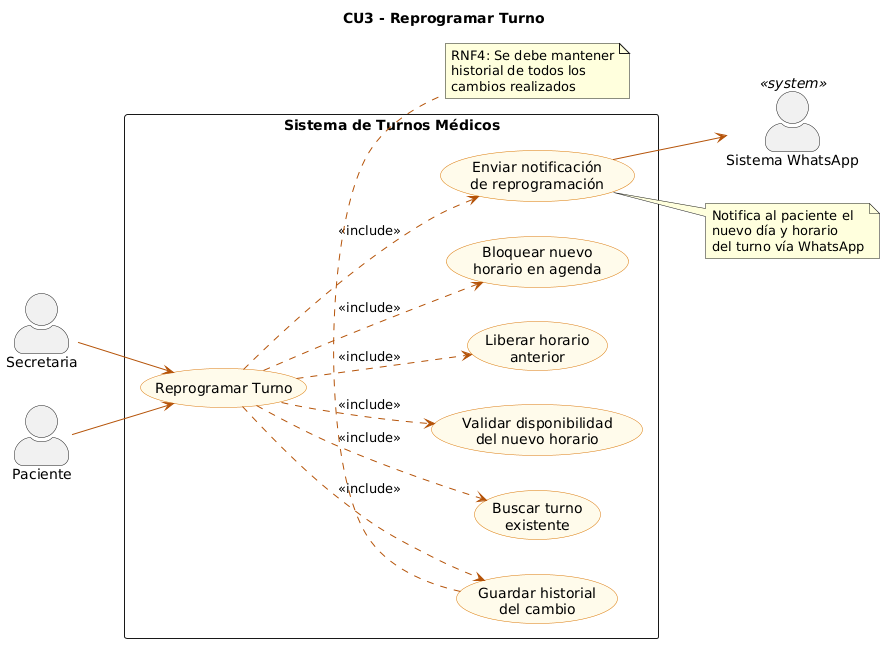
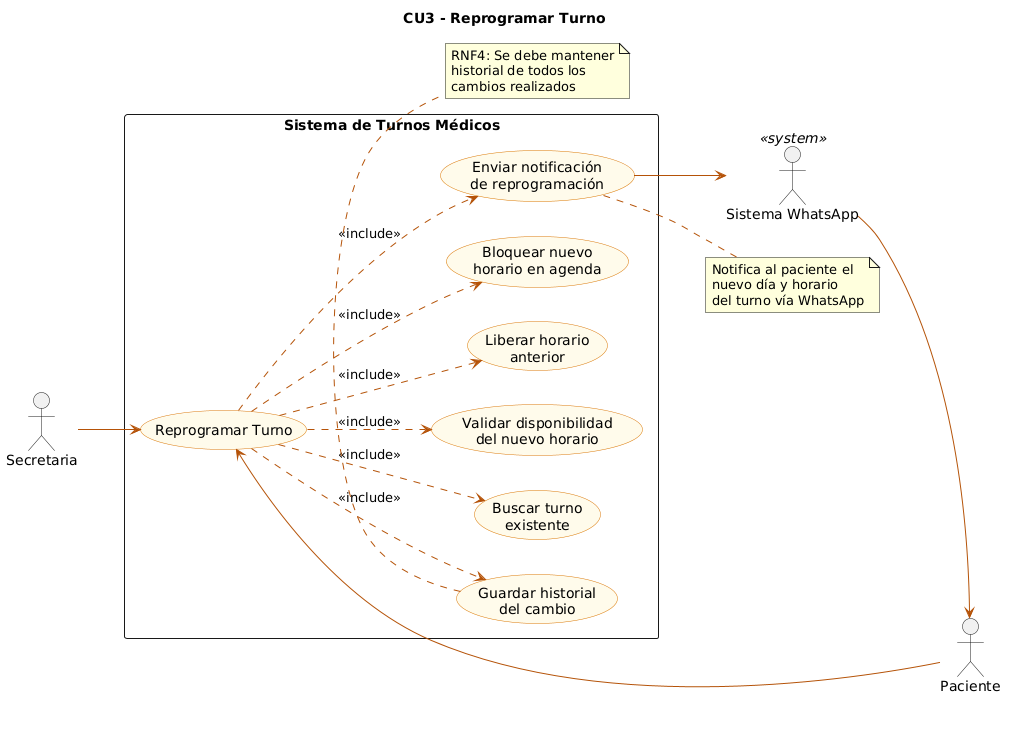
Correcciones generales archivos changelog - ia/a2 - diag de casos de uso

diff --git a/changelog.md b/changelog.md
@@ -2,126 +2,90 @@
 
 ## [Release Actividad Obligatoria N°2] - 2026-04-20
 ### Added
-- [feature/espec-escenarios-casos-uso-add-escenario-1]  Escenarios de casos de uso completos.
-  PR: [#67](https://github.com/angelgc9107-lgtm/SistemaTurnosMedicos_GP6/pull/67) — @Piastrellini (Especialista en Escenarios De Casos de Uso)
+- [feature/espec-escenarios-casos-uso-add-escenario-1]  Escenarios de casos de uso completos. PR: [#67](https://github.com/angelgc9107-lgtm/SistemaTurnosMedicos_GP6/pull/67) — @Piastrellini (Especialista en Escenarios De Casos de Uso)
 
-- [feature/documentador-y-coordinador-2]  Creacion de formato de carpetas, junto con correcciones de changelog, nomenclatura y rutas.
-  PR: [#78](https://github.com/angelgc9107-lgtm/SistemaTurnosMedicos_GP6/pull/78) — @alandox1 (Documentador y coordinador de archivos)
+- [feature/documentador-y-coordinador-2]  Creacion de formato de carpetas, junto con correcciones de changelog, nomenclatura y rutas. PR: [#78](https://github.com/angelgc9107-lgtm/SistemaTurnosMedicos_GP6/pull/78) — @alandox1 (Documentador y coordinador de archivos)
 
-- [feature/diseniador-tarjetas-crc-add-tarjeta-clase-1]  Tarjetas CRC completas.
-  PR: [#81](https://github.com/angelgc9107-lgtm/SistemaTurnosMedicos_GP6/pull/81) — @LuchoBarrionuevo13 (Diseñador de Tarjetas CRC)
+- [feature/diseniador-tarjetas-crc-add-tarjeta-clase-1]  Tarjetas CRC completas. PR: [#81](https://github.com/angelgc9107-lgtm/SistemaTurnosMedicos_GP6/pull/81) — @LuchoBarrionuevo13 (Diseñador de Tarjetas CRC)
 
-- [feature/documentador-y-coordinador-2]  Registrar uso de Ia en la carpeta correspondida.
-  PR: [#82](https://github.com/angelgc9107-lgtm/SistemaTurnosMedicos_GP6/pull/82) — @alandox1 (Documentador y coordinador de archivos)
+- [feature/documentador-y-coordinador-2]  Registrar uso de Ia en la carpeta correspondida. PR: [#82](https://github.com/angelgc9107-lgtm/SistemaTurnosMedicos_GP6/pull/82) — @alandox1 (Documentador y coordinador de archivos)
 
-- [feature/modelador-diag-casos-uso-update-use-case-1]  Corrección a diagramas de casos de uso.
-  PR: [#80](https://github.com/angelgc9107-lgtm/SistemaTurnosMedicos_GP6/pull/80) — @angelgc9107-lgtm (Modelador de Diagramas de Casos de Uso)
+- [feature/modelador-diag-casos-uso-update-use-case-1]  Corrección a diagramas de casos de uso. PR: [#80](https://github.com/angelgc9107-lgtm/SistemaTurnosMedicos_GP6/pull/80) — @angelgc9107-lgtm (Modelador de Diagramas de Casos de Uso)
 
 ### Fixed
-  - [fix/changelog]  Reestructurar changelog segun estandares.
-  PR: [#85](https://github.com/angelgc9107-lgtm/SistemaTurnosMedicos_GP6/pull/85) — @alandox1 (Documentador y coordinador de archivos)
+- [fix/changelog]  Reestructurar changelog segun estandares. PR: [#85](https://github.com/angelgc9107-lgtm/SistemaTurnosMedicos_GP6/pull/85) — @alandox1 (Documentador y coordinador de archivos)
 
-  - [fix/changelog]  Correcciones de tarjetas CRC.
-  PR: [#87](https://github.com/angelgc9107-lgtm/SistemaTurnosMedicos_GP6/pull/87) — @luchobarrionuevo13 (Diseñador de tarjetas CRC)
+- [fix/changelog]  Correcciones de tarjetas CRC. PR: [#87](https://github.com/angelgc9107-lgtm/SistemaTurnosMedicos_GP6/pull/87) — @luchobarrionuevo13 (Diseñador de tarjetas CRC)
   
-  - [fix/diag-casos-de-uso]  Corrección de los diagramas de casos de uso.
-  PR: [#89](https://github.com/angelgc9107-lgtm/SistemaTurnosMedicos_GP6/pull/89) — @angelgc9107-lgtm (Modelador de diagramas de casos de uso)
+- [fix/diag-casos-de-uso]  Corrección de los diagramas de casos de uso. PR: [#89](https://github.com/angelgc9107-lgtm/SistemaTurnosMedicos_GP6/pull/89) — @angelgc9107-lgtm (Modelador de diagramas de casos de uso)
 
-  - [fix/corrección-escarios-casos-de-uso]  Corrección completa de archivo escenarios_de_casos_de_uso.md.
-  PR: [#91](https://github.com/angelgc9107-lgtm/SistemaTurnosMedicos_GP6/pull/91) — @Piastrellini (Especialista en Escenarios De Casos de Uso)
+- [fix/corrección-escarios-casos-de-uso]  Corrección completa de archivo escenarios_de_casos_de_uso.md. PR: [#91](https://github.com/angelgc9107-lgtm/SistemaTurnosMedicos_GP6/pull/91) — @Piastrellini (Especialista en Escenarios De Casos de Uso)
 
-  - [fix/changelog-diag]  Corrección al formato archivo a2.
-  PR: [#94](https://github.com/angelgc9107-lgtm/SistemaTurnosMedicos_GP6/pull/94) — @angelgc9107-lgtm (Modelador de diagramas de casos de uso)
+- [fix/changelog-diag]  Corrección al formato archivo a2. PR: [#94](https://github.com/angelgc9107-lgtm/SistemaTurnosMedicos_GP6/pull/94) — @angelgc9107-lgtm (Modelador de diagramas de casos de uso)
 
-  - [fix/correccion-tarjetas-crc-completa]  Correcciones de tarjetas CRC completo.
-  PR: [#95](https://github.com/angelgc9107-lgtm/SistemaTurnosMedicos_GP6/pull/95) — @luchobarrionuevo13 (Diseñador de tarjetas CRC)
+- [fix/correccion-tarjetas-crc-completa]  Correcciones de tarjetas CRC completo. PR: [#95](https://github.com/angelgc9107-lgtm/SistemaTurnosMedicos_GP6/pull/95) — @luchobarrionuevo13 (Diseñador de tarjetas CRC)
 
-  - [fix/changelog-correcciones]  Corrección al changelog y archivo diagramas de casos de uso.
-  PR: [#97](https://github.com/angelgc9107-lgtm/SistemaTurnosMedicos_GP6/pull/97) — @angelgc9107-lgtm (Modelador de diagramas de casos de uso)
+- [fix/changelog-correcciones]  Corrección al changelog y archivo diagramas de casos de uso. PR: [#97](https://github.com/angelgc9107-lgtm/SistemaTurnosMedicos_GP6/pull/97) — @angelgc9107-lgtm (Modelador de diagramas de casos de uso)
 
-  - [fix/changelog-correcciones]  Agregar PR al changelog.
-  PR: [#101](https://github.com/angelgc9107-lgtm/SistemaTurnosMedicos_GP6/pull/101) — @angelgc9107-lgtm (Modelador de diagramas de casos de uso)
+- [fix/changelog-correcciones]  Agregar PR al changelog. PR: [#101](https://github.com/angelgc9107-lgtm/SistemaTurnosMedicos_GP6/pull/101) — @angelgc9107-lgtm (Modelador de diagramas de casos de uso)
 
 ---
 
 ## [Release Actividad Obligatoria N°1] - 2026-03-26
 
 ### Added
-- [feature/modelador-casos-uso-update-use-case-1]  Documentación de 5 casos de uso completos en introduccion.md.
-  PR: [#2](https://github.com/angelgc9107-lgtm/SistemaTurnosMedicos_GP6/pull/2) — @ferreyrasantiagojoaquin-lab (Modelador de casos de uso)
+- [feature/modelador-casos-uso-update-use-case-1]  Documentación de 5 casos de uso completos en introduccion.md. PR: [#2](https://github.com/angelgc9107-lgtm/SistemaTurnosMedicos_GP6/pull/2) — @ferreyrasantiagojoaquin-lab (Modelador de casos de uso)
 
-- [feature/doc-coord-repo-update-readme-md]  Creacion de estructura del repositorio, README.md, changelog.md, anexos.md e introducción a POO.
-  PR: [#4](https://github.com/angelgc9107-lgtm/SistemaTurnosMedicos_GP6/pull/4) — @claudiapnunez (Documentador y Coordinador)
+- [feature/doc-coord-repo-update-readme-md]  Creacion de estructura del repositorio, README.md, changelog.md, anexos.md e introducción a POO. PR: [#4](https://github.com/angelgc9107-lgtm/SistemaTurnosMedicos_GP6/pull/4) — @claudiapnunez (Documentador y Coordinador)
 
-- [feature/diseniador-clases-add-boceto-inicial]  Exportación de documentación y organización de archivos en la carpeta diagramas/01-diagrama-clases/.
-  PR: [#12](https://github.com/angelgc9107-lgtm/SistemaTurnosMedicos_GP6/pull/12) — @Piastrellini (Diseñador de clases iniciales)
-  PR: [#15](https://github.com/angelgc9107-lgtm/SistemaTurnosMedicos_GP6/pull/15) — @Piastrellini (Diseñador de clases iniciales)
+- [feature/diseniador-clases-add-boceto-inicial]  Exportación de documentación y organización de archivos en la carpeta diagramas/01-diagrama-clases/. PR: [#12](https://github.com/angelgc9107-lgtm/SistemaTurnosMedicos_GP6/pull/12) — @Piastrellini (Diseñador de clases iniciales) 
 
-- [feature/analista-requerimentos-add-introduccion-md]  Documentación de los requerimientos funcionales y no funcionales.
-  PR: [#14](https://github.com/angelgc9107-lgtm/SistemaTurnosMedicos_GP6/pull/14) — @angelgc9107-lgtm (Analista de requerimientos)
+- [feature/diseniador-clases-add-boceto-inicial]  Exportación de documentación y organización de archivos en la carpeta diagramas/01-diagrama-clases/. PR: [#15](https://github.com/angelgc9107-lgtm/SistemaTurnosMedicos_GP6/pull/15) — @Piastrellini (Diseñador de clases iniciales)
+
+- [feature/analista-requerimentos-add-introduccion-md]  Documentación de los requerimientos funcionales y no funcionales. PR: [#14](https://github.com/angelgc9107-lgtm/SistemaTurnosMedicos_GP6/pull/14) — @angelgc9107-lgtm (Analista de requerimientos)
 
 ### Changed
-- [feature/modelador-casos-uso-update-use-case-1]  Los casos de uso presentes, PR a develop y el Issue vinculado.
-  PR: [#10](https://github.com/angelgc9107-lgtm/SistemaTurnosMedicos_GP6/pull/10) — @ferreyrasantiagojoaquin-lab (Modelador de casos de uso)
+- [feature/modelador-casos-uso-update-use-case-1]  Los casos de uso presentes, PR a develop y el Issue vinculado. PR: [#10](https://github.com/angelgc9107-lgtm/SistemaTurnosMedicos_GP6/pull/10) — @ferreyrasantiagojoaquin-lab (Modelador de casos de uso)
 
-- [feature/fix-changelog.md]  Corrección a los archivos changelog.md & README.md.
-  PR: [#18](https://github.com/angelgc9107-lgtm/SistemaTurnosMedicos_GP6/pull/18) — @angelgc9107-lgtm (Analista de requerimientos)
+- [feature/fix-changelog.md]  Corrección a los archivos changelog.md & README.md. PR: [#18](https://github.com/angelgc9107-lgtm/SistemaTurnosMedicos_GP6/pull/18) — @angelgc9107-lgtm (Analista de requerimientos)
 
-- [feature/fix-changelog.md]  Corrección a los archivos changelog.md & README.md.
-  PR: [#20](https://github.com/angelgc9107-lgtm/SistemaTurnosMedicos_GP6/pull/20) — @angelgc9107-lgtm (Analista de requerimientos)
+- [feature/fix-changelog.md]  Corrección a los archivos changelog.md & README.md. PR: [#20](https://github.com/angelgc9107-lgtm/SistemaTurnosMedicos_GP6/pull/20) — @angelgc9107-lgtm (Analista de requerimientos)
 
-- [feature/diseniador-clases-add-boceto-inicial]  Corrección de estructura de diagramas y nombre de carpetas.
-  PR: [#21](https://github.com/angelgc9107-lgtm/SistemaTurnosMedicos_GP6/pull/21) — @Piastrellini (Diseñador de clases iniciales)
+- [feature/diseniador-clases-add-boceto-inicial]  Corrección de estructura de diagramas y nombre de carpetas. PR: [#21](https://github.com/angelgc9107-lgtm/SistemaTurnosMedicos_GP6/pull/21) — @Piastrellini (Diseñador de clases iniciales)
 
-- [feature/Piastrellini-pach-1]  Actualizar changelog 2026-04-06.
-  PR: [#28](https://github.com/angelgc9107-lgtm/SistemaTurnosMedicos_GP6/pull/28) — @Piastrellini (Diseñador de clases iniciales)
+- [feature/Piastrellini-pach-1]  Actualizar changelog 2026-04-06. PR: [#28](https://github.com/angelgc9107-lgtm/SistemaTurnosMedicos_GP6/pull/28) — @Piastrellini (Diseñador de clases iniciales)
 
-- [feature/analista-requerimentos-add-introduccion-md]  Corrección a los archivos changelog.md & estructura de archivo introduccion.md.
-  PR: [#31](https://github.com/angelgc9107-lgtm/SistemaTurnosMedicos_GP6/pull/31) — @angelgc9107-lgtm (Analista de requerimientos)
+- [feature/analista-requerimentos-add-introduccion-md]  Corrección a los archivos changelog.md & estructura de archivo introduccion.md. PR: [#31](https://github.com/angelgc9107-lgtm/SistemaTurnosMedicos_GP6/pull/31) — @angelgc9107-lgtm (Analista de requerimientos)
 
-- [feature/modelador-casos-uso-update-use-case-1]  Corrección a los archivos changelog.md & estructura de archivo introduccion.md.
-  PR: [#34](https://github.com/angelgc9107-lgtm/SistemaTurnosMedicos_GP6/pull/34) — @angelgc9107-lgtm (Analista de requerimientos)
+- [feature/modelador-casos-uso-update-use-case-1]  Corrección a los archivos changelog.md & estructura de archivo introduccion.md. PR: [#34](https://github.com/angelgc9107-lgtm/SistemaTurnosMedicos_GP6/pull/34) — @angelgc9107-lgtm (Analista de requerimientos)
 
-- [feature/doc-coord-repo-update-readme-md]  Corrección de carpetas del repositorio.
-  PR: [#35](https://github.com/angelgc9107-lgtm/SistemaTurnosMedicos_GP6/pull/35) — @alandox1 (Documentador y coordinador de archivos)
+- [feature/doc-coord-repo-update-readme-md]  Corrección de carpetas del repositorio. PR: [#35](https://github.com/angelgc9107-lgtm/SistemaTurnosMedicos_GP6/pull/35) — @alandox1 (Documentador y coordinador de archivos)
 
-- [feature/doc-coord-repo-update-readme-md]  Corrección de archivo anexo.
-  PR: [#36](https://github.com/angelgc9107-lgtm/SistemaTurnosMedicos_GP6/pull/36) — @alandox1 (Documentador y coordinador de archivos)
+- [feature/doc-coord-repo-update-readme-md]  Corrección de archivo anexo. PR: [#36](https://github.com/angelgc9107-lgtm/SistemaTurnosMedicos_GP6/pull/36) — @alandox1 (Documentador y coordinador de archivos)
 
-- [feature/doc-coord-repo-update-readme-md]  Corrección de archivo y actualización de changelog.
-  PR: [#41](https://github.com/angelgc9107-lgtm/SistemaTurnosMedicos_GP6/pull/41) — @alandox1 (Documentador y coordinador de archivos)
+- [feature/doc-coord-repo-update-readme-md]  Corrección de archivo y actualización de changelog. PR: [#41](https://github.com/angelgc9107-lgtm/SistemaTurnosMedicos_GP6/pull/41) — @alandox1 (Documentador y coordinador de archivos)
 
 ### Fixed
 
-- [fix/correccion-Actividad-1]  Corrección de la actividad N° 1.
-  PR: [#47](https://github.com/angelgc9107-lgtm/SistemaTurnosMedicos_GP6/pull/47) — @alandox1 (Documentador y coordinador de archivos)
+- [fix/correccion-Actividad-1]  Corrección de la actividad N° 1. PR: [#47](https://github.com/angelgc9107-lgtm/SistemaTurnosMedicos_GP6/pull/47) — @alandox1 (Documentador y coordinador de archivos)
 
-- [fix/correccion-Actividad-1]  Corrección a los archivos changelog.md & lenguaje en introducción al POO archivo introduccion.md.
-  PR: [#49](https://github.com/angelgc9107-lgtm/SistemaTurnosMedicos_GP6/pull/49) — @angelgc9107-lgtm (Analista de requerimientos)
+- [fix/correccion-Actividad-1]  Corrección a los archivos changelog.md & lenguaje en introducción al POO archivo introduccion.md. PR: [#49](https://github.com/angelgc9107-lgtm/SistemaTurnosMedicos_GP6/pull/49) — @angelgc9107-lgtm (Analista de requerimientos)
 
-- [fix/correccion-Actividad-1]  Corrección a los archivos changelog.md, introducción al POO & README.md.
-  PR: [#51](https://github.com/angelgc9107-lgtm/SistemaTurnosMedicos_GP6/pull/51) — @angelgc9107-lgtm (Analista de requerimientos)
+- [fix/correccion-Actividad-1]  Corrección a los archivos changelog.md, introducción al POO & README.md. PR: [#51](https://github.com/angelgc9107-lgtm/SistemaTurnosMedicos_GP6/pull/51) — @angelgc9107-lgtm (Analista de requerimientos)
 
-- [fix/correccion-Actividad-1]  Auditoría de requisitos y casos de uso realizada.
-  PR: [#58](https://github.com/angelgc9107-lgtm/SistemaTurnosMedicos_GP6/pull/58) — @LuchoBarrionuevo13 (Diseñador de Tarjetas CRC)
+- [fix/correccion-Actividad-1]  Auditoría de requisitos y casos de uso realizada. PR: [#58](https://github.com/angelgc9107-lgtm/SistemaTurnosMedicos_GP6/pull/58) — @LuchoBarrionuevo13 (Diseñador de Tarjetas CRC)
 
-- [fix/changelog-commits-retroactivos]  Agregar commits retroactivos en release actividad obligatoria N°1.
-  PR: [#60](https://github.com/angelgc9107-lgtm/SistemaTurnosMedicos_GP6/pull/60) — @angelgc9107-lgtm (Analista de requerimientos)
+- [fix/changelog-commits-retroactivos]  Agregar commits retroactivos en release actividad obligatoria N°1. PR: [#60](https://github.com/angelgc9107-lgtm/SistemaTurnosMedicos_GP6/pull/60) — @angelgc9107-lgtm (Analista de requerimientos)
 
-- [fix/reorganizar-changelog-fixed-changed]  Reorganización y agregado de PR.
-  PR: [#62](https://github.com/angelgc9107-lgtm/SistemaTurnosMedicos_GP6/pull/62) — @angelgc9107-lgtm (Analista de requerimientos)
+- [fix/reorganizar-changelog-fixed-changed]  Reorganización y agregado de PR. PR: [#62](https://github.com/angelgc9107-lgtm/SistemaTurnosMedicos_GP6/pull/62) — @angelgc9107-lgtm (Analista de requerimientos)
 
-- [fix/changelog-categorizacion]  Categorización correcta de las PR en changelog.md.
-  PR: [#69](https://github.com/angelgc9107-lgtm/SistemaTurnosMedicos_GP6/pull/69) — @angelgc9107-lgtm (Analista de requerimientos)
+- [fix/changelog-categorizacion]  Categorización correcta de las PR en changelog.md. PR: [#69](https://github.com/angelgc9107-lgtm/SistemaTurnosMedicos_GP6/pull/69) — @angelgc9107-lgtm (Analista de requerimientos)
 
-- [fix/corregir-Piastrellini-patch-1]  Corrección de branch Piastrellini-pach-1.
-  PR: [#71](https://github.com/angelgc9107-lgtm/SistemaTurnosMedicos_GP6/pull/71) — @Piastrellini (Especialista en Escenarios de Casos de Uso)
+- [fix/corregir-Piastrellini-patch-1]  Corrección de branch Piastrellini-pach-1. PR: [#71](https://github.com/angelgc9107-lgtm/SistemaTurnosMedicos_GP6/pull/71) — @Piastrellini (Especialista en Escenarios de Casos de Uso)
 
-- [fix/correccion-Actividad-1]  Auditoría de requisitos y casos de uso realizada.
-  PR: [#73](https://github.com/angelgc9107-lgtm/SistemaTurnosMedicos_GP6/pull/73) — @LuchoBarrionuevo13 (Diseñador de Tarjetas CRC)
+- [fix/correccion-Actividad-1]  Auditoría de requisitos y casos de uso realizada. PR: [#73](https://github.com/angelgc9107-lgtm/SistemaTurnosMedicos_GP6/pull/73) — @LuchoBarrionuevo13 (Diseñador de Tarjetas CRC)
 
-- [fix/changelog-remover-duplicados]  Eliminación de duplicados en changelog.
-  PR: [#75](https://github.com/angelgc9107-lgtm/SistemaTurnosMedicos_GP6/pull/75) — @angelgc9107-lgtm (Analista de requerimientos)
+- [fix/changelog-remover-duplicados]  Eliminación de duplicados en changelog. PR: [#75](https://github.com/angelgc9107-lgtm/SistemaTurnosMedicos_GP6/pull/75) — @angelgc9107-lgtm (Analista de requerimientos)
 
 
 

diff --git a/ia/a2/modelador-diagramas-casos-uso.md b/ia/a2/modelador-diagramas-casos-uso.md
@@ -8,7 +8,14 @@ Se utilizó Copilot para la creación y corrección de los archivos puml de los 
  - 3 Necesito minimo 5 diagramas que tengan lo siguiente: Actores principales, Casos de uso con relaciones adecuadas (inclusiones o extensiones)
  - 4 el cu1 los actores serian la secretaria y el paciente
  - 5 el paciente solicita el turno, debe tener una interacción con agendar el turno
- - Necesito que analices el archivo introducción.md el caso 6. cancelar turno y hagas con lenguaje Plantuml un archivo puml de ese caso de uso en la carpeta 02-casos-de-uso llamado "02-cancelar-turno-06.puml"
+ - 6 Necesito que analices el archivo introducción.md el caso 6. cancelar turno y hagas con lenguaje Plantuml un archivo puml de ese caso de uso en la carpeta 02-casos-de-uso llamado "02-cancelar-turno-06.puml"
+ - 7 El CU2 agregar al actor Médico.
+ - 8 Agregarle una realación entre el actor Médico con "Visualizar paciente en sala de espera".
+ - 9 en el archivo 02-reprogramar-turno-03.puml necesito que hagas que system sea el que le informa a paciente.
+ - 10 En el CU4 Se debe quitar los exted de bloquear días y horarios por el motivo que estos no son un derivado sino un motivo del bloqueo.
+ - 11 En el CU5 agregar "extend" a "ver horarios bloqueados" por ser un derivado de visualizar agenda.
+
+
  ```
 
 ## Archivos utilizados como contexto
@@ -22,6 +29,10 @@ La Secretaria inicia Agendar Turno y Agendar como sobreturno (todas las acciones
 El Paciente solicita el turno con una interacción directa hacia Agendar Turno (con etiqueta "solicita turno")
 El Sistema WhatsApp envía la notificación al Paciente (WA --> PAC)
 - CU6 Se agrego el CU6 el puml y el archivo png.
+- CU2 El CU2 se agrego al actor Médico, incluir una relación entre el actor Médico y visualizar paciente en sala de espera.
+- CU3 Se agrego una linea para representar que la notificación al paciente se le es enviada por whatsApp
+- CU4 Se removio los "extend" por no ser un derivado del caso "Bloquear horarios y días" sino motivmos del mismo.
+- CU5 Agregar al actor "Médico" que interactue con "Visualizar Agenda"
 
 ## Interacciones
 
@@ -48,7 +59,34 @@ El Sistema WhatsApp envía la notificación al Paciente (WA --> PAC)
 ```
 **Respuesta:** Genero el archivo con las correcciones solicitada.
 
+### Iteración 4: Agregar actor en el CU2
+- **Prompt usado:**
+```
+El CU2 se agrego al actor Médico, incluir una relación entre el actor Médico y visualizar paciente en sala de espera.
+```
+**Respuesta:** Se realizo la modificación solicitada.
+
+### Iteración 5: Agregar una linea entre la notificación y el paciente
+- **Prompt usado:**
+```
+en el archivo 02-reprogramar-turno-03.puml necesito que hagas que system sea el que le informa a paciente
+```
+**Respuesta:** Agregué WA --> PAC.
+
 ### Iteración 6: Generación de archivo puml CU6
+- **Prompt usado:**
+```
+Remover los tres extend de horarios en calendarios del CU4.
+```
+**Respuesta:** Listo. Eliminé los tres use cases de extensión (CU4_EXT1/2/3) y sus relaciones <<extend>>.
+### Iteración 7: Generación de archivo puml CU6
+- **Prompt usado:**
+```
+En el archivo CU5 agregar el actor Médico, debe interactuar con "Visualizar paciente en sala"
+```
+**Respuesta:** Se agrego el actor con la relación solicitada.
+
+### Iteración 8: Generación de archivo puml CU6
 - **Prompt usado:**
 ```
 Leer en el archivo anexo/introduccion.md el caso de uso "6. Cancelar turno" para tomar como contexto, en base a eso generar un archivo puml con el nombre "02-cancelar-turno-06"

diff --git a/ia/a2/documentador-coordinador.md b/ia/a2/documentador-coordinador.md
@@ -1,6 +1,7 @@
 # Uso de Copilot Agent Mode - Documentador y Coodinador
 
 ## Prompt utilizado
+```
 Actúa como un Senior Software Engineer realizando una code review profesional de la Pull Request.
 
 INSTRUCCIONES IMPORTANTES:
@@ -52,6 +53,7 @@ REQUEST CHANGES
 COMMENT ONLY
 
 ⚠ Nota importante: Si seleccionas "COMMENT ONLY", no completes la sección "DECISIÓN DEL REVISOR HUMANO". Debes quedar vía para edición manual en el Pull Request en la sección correspondiente. Publica comentarios directamente en el código si lo consideras necesario.
+```
 ## Archivos utilizados como contexto
 - Pull requests
 

diff --git a/diagramas/diagramasUML.md b/diagramas/diagramasUML.md
@@ -1,4 +1,3 @@
 # Diagramas UML
-- [Diagramas de Clases](01-diagrama-clases)
-- [Diagramas de Casos de Uso](02-casos-de-uso/)
-- [Escenarios de Casos de Uso](03-escenarios-casos-de-uso/)
+- [Diagramas de Casos de Uso](02-casos-de-uso/diagramas_de_casos_de_uso.md)
+- [Escenarios de Casos de Uso](03-escenarios-casos-de-uso/escenarios_de_casos_de_uso.md)
